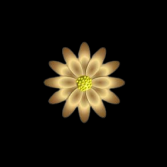
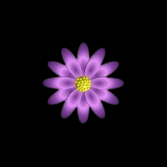
changed flower colors & made it so game closes after win message

Changed region(s): [[0.2395, 0.2395, 0.7485, 0.7485]]

diff --git a/src/ui/GameInterface.java b/src/ui/GameInterface.java
@@ -153,7 +153,14 @@ public class GameInterface extends JFrame{
 
 
     public void showNoMovesMessage() {
-        JOptionPane.showInternalMessageDialog(null,"There are no valid moves you can make this turn","No Moves",1);
+        //JOptionPane.showInternalMessageDialog(null,"There are no valid moves you can make this turn","No Moves",1);
+        playerTurnLabel.setText("turn skipped: no legal moves");
+        try{
+            Thread.sleep(10);
+            System.out.println(true);
+        }catch(InterruptedException e){
+            e.printStackTrace();
+        }
         //JDialog noMovesDialogue = new JDialog(this, "No Moves");
         // noMovesDialogue.add(new JLabel(""));
         // noMovesDialogue.pack();
@@ -185,22 +192,9 @@ public class GameInterface extends JFrame{
     }
 
     private void showGameOverDialog(String gameOverText){
-        //JDialog gameOverDialog = new JDialog(this, "Game Over");
-        //gameOverDialog.add(new JLabel(gameOverText));
         JOptionPane.showInternalMessageDialog(null,gameOverText,"Game Over",1);
-        WindowAdapter gameOverListener = new WindowAdapter() {
-            @Override
-            public void windowClosing(WindowEvent e) {
-                setVisible(false);
-                dispose();
-                controller.restartGameMenu();
-            }
-        };
-
-        //gameOverDialog.addWindowListener(gameOverListener);
-
-        //gameOverDialog.pack();
-        //gameOverDialog.setVisible(true);
+        setVisible(false);
+        dispose();
 
     }
 

diff --git a/src/ui/PlayerSelectionWindow.java b/src/ui/PlayerSelectionWindow.java
@@ -48,7 +48,9 @@ public class PlayerSelectionWindow extends JFrame {
         JPanel panel = new JPanel(new GridLayout(1, 2, 10, 10));
 
         JButton darkButton = new JButton("DARK");
+        darkButton.setBackground(Color.darkGray);
         JButton lightButton = new JButton("LIGHT");
+        darkButton.setBackground(Color.gray);
 
         darkButton.addActionListener(new ActionListener() {
             @Override

diff --git a/src/controller/GameController.java b/src/controller/GameController.java
@@ -262,6 +262,7 @@ public class GameController implements ActionListener {
         }else{
             gameInterface.showWinAndLoseMessage(activePlayerController.getPlayerColour());
         }
+        restartGameMenu();
         //this.parentListener.start();
     }
 
